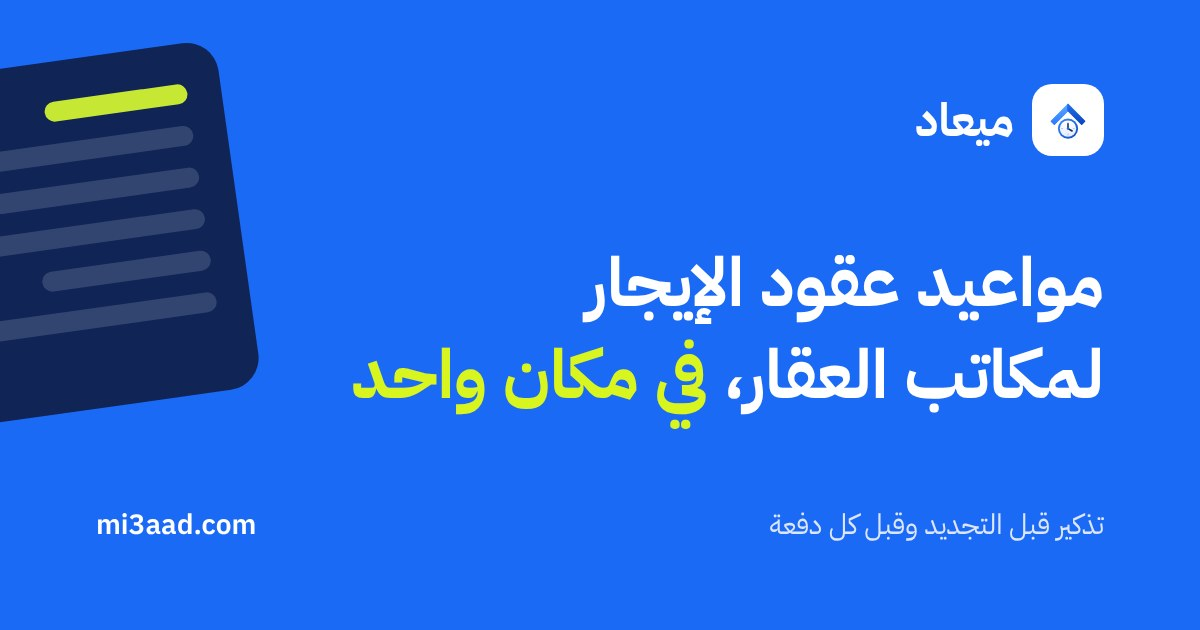
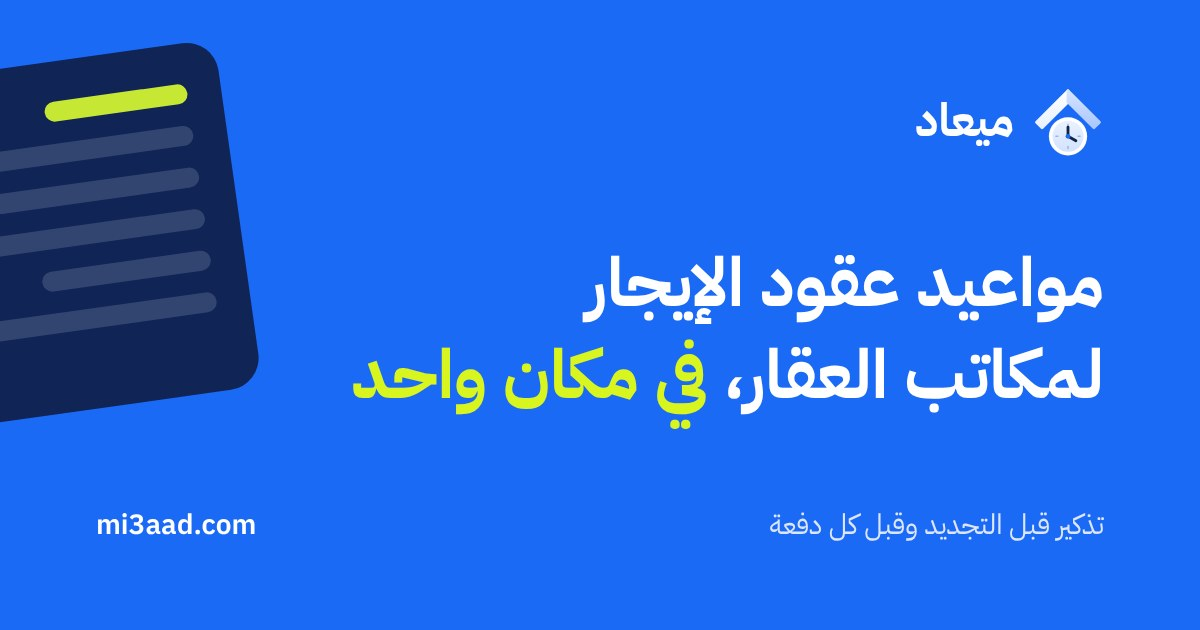
Show the Mi3aad mark without a tile; a light version on the blue header and the share image
Claude-Session: https://claude.ai/code/session_01XtxfAGdbkBuFsj3Qg7doat

Changed region(s): [[0.8325, 0.1206, 0.925, 0.2714]]

diff --git a/public/css/site.css b/public/css/site.css
@@ -468,3 +468,8 @@ textarea.mk-input { min-height: 150px; resize: vertical; }
 .mk-logo__mark .brand-mark { width: 84%; height: 84%; }
 .mk-mock__brand .mk-logo__mark { background: #fff; }
 .mk-mock__brand .mk-logo__mark .brand-mark { width: 21px; height: 21px; }
+.mk-logo__mark, .mk-nav .mk-logo__mark, .mk-mock__brand .mk-logo__mark { background: none; box-shadow: none; border-radius: 0; }
+.mk-logo__mark .brand-mark { width: 100%; height: 100%; }
+.mk-mock__brand .mk-logo__mark .brand-mark { width: 26px; height: 26px; }
+.mk-logo .mk-logo__mark { width: 40px; height: 40px; }
+.mk-std .auth__icon { background: none; box-shadow: none; border-radius: 0; }

diff --git a/public/css/main.css b/public/css/main.css
@@ -2101,3 +2101,6 @@ body.office-body {
 .logo__mark, .office-nav__mark, .auth__icon, .mk-std .auth__icon { background: #fff; color: inherit; box-shadow: 0 4px 12px -6px rgba(11, 40, 100, .35); }
 .auth__icon { background: #eef4ff; }
 .logo__mark .brand-mark, .office-nav__mark .brand-mark { width: 80%; height: 80%; }
+/* No tile behind the mark (owner's request): the mark stands on its own. */
+.logo__mark, .office-nav__mark, .auth__icon, .mk-std .auth__icon { background: none; box-shadow: none; border-radius: 0; }
+.logo__mark .brand-mark, .office-nav__mark .brand-mark, .auth__icon .brand-mark { width: 100%; height: 100%; }
